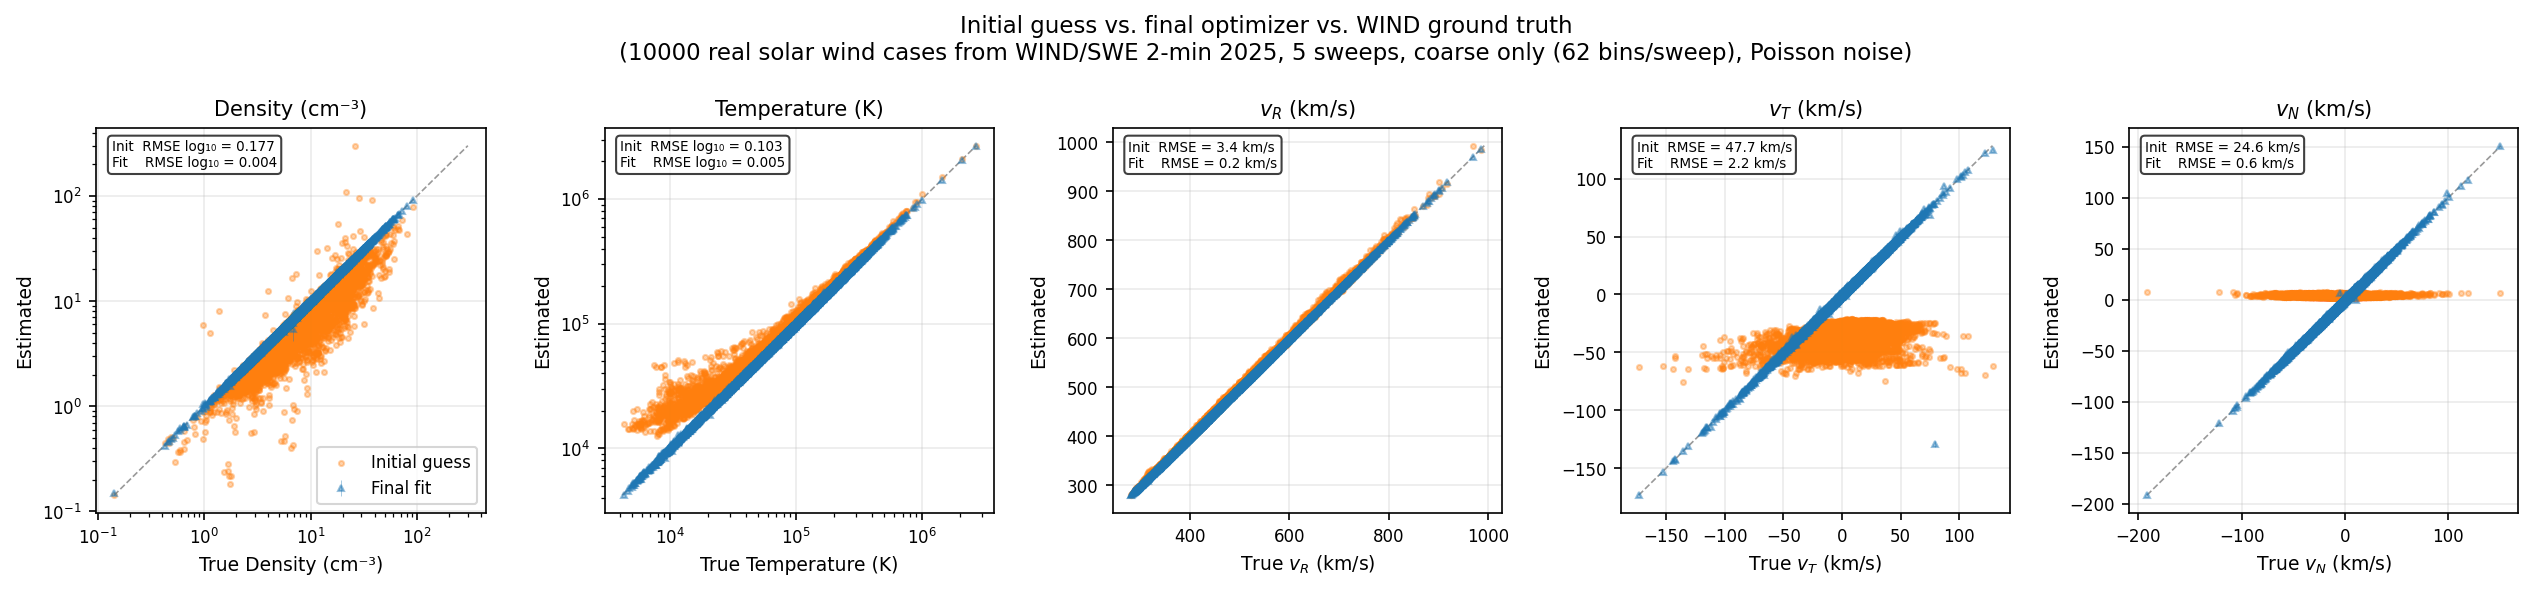
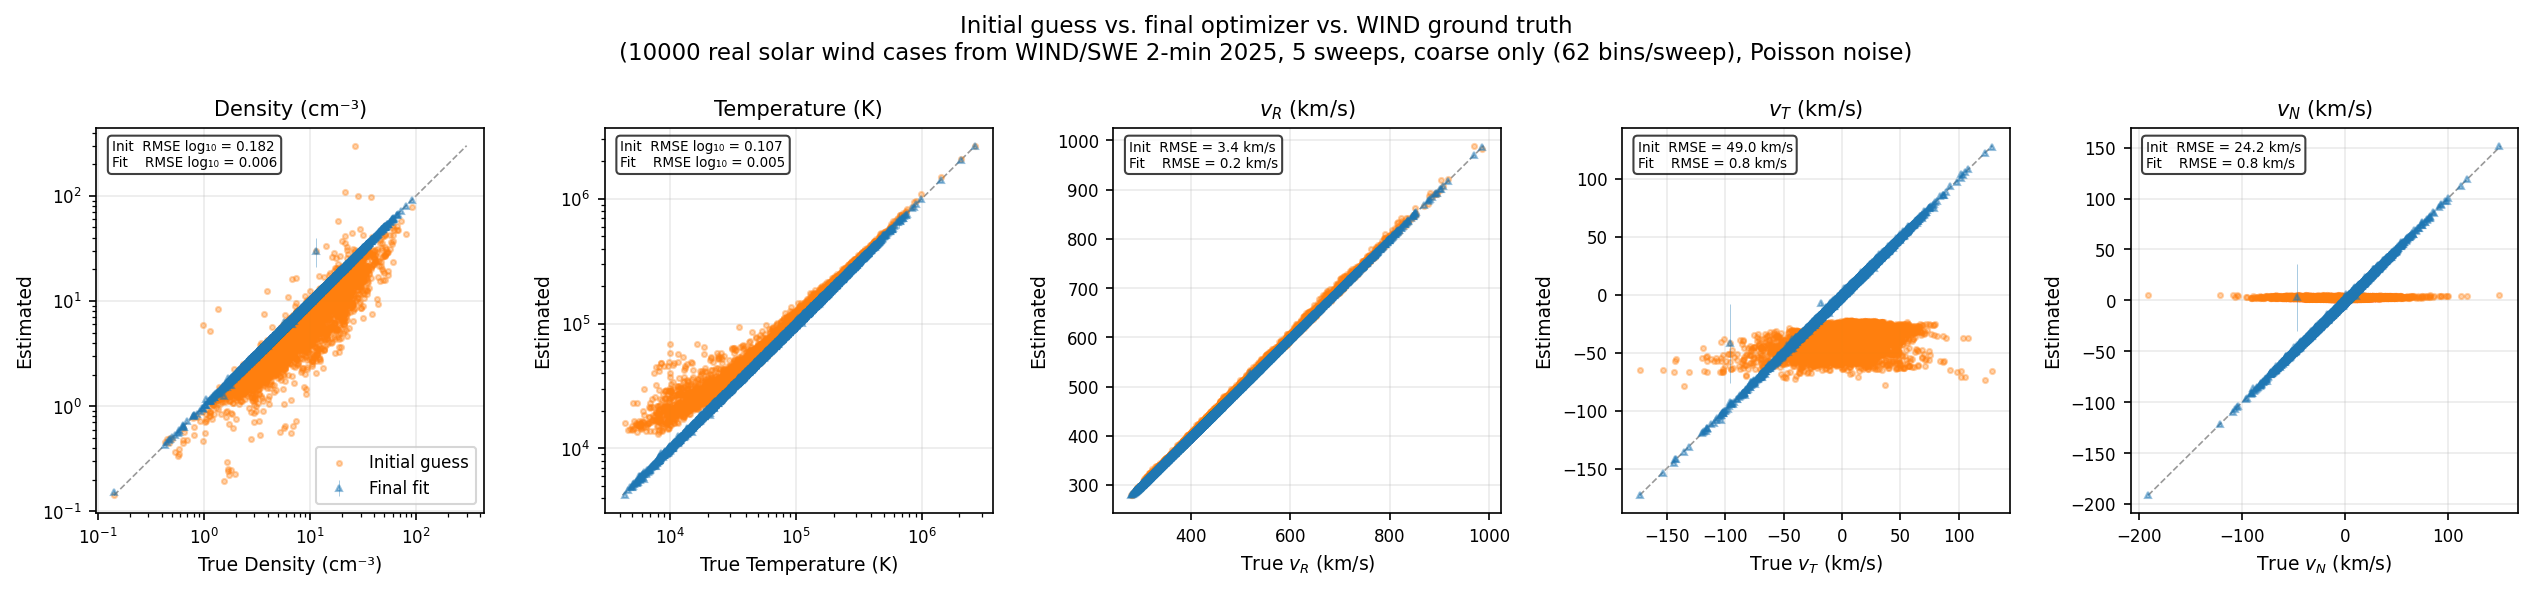
fix fit accuracy plot

diff --git a/docs/swapi/figure_src/plot_fit_accuracy.py b/docs/swapi/figure_src/plot_fit_accuracy.py
@@ -3,15 +3,12 @@
 Scatter plots comparing the SWAPI proton-moments fit against ground truth on
 **real solar wind conditions** sampled from WIND/SWE 2-min ASCII data.
 
-Toggle `INCLUDE_FINE_SWEEPS` at the top of this module:
-  - False (default): use only the 62 coarse-sweep bins (indices 1..62), to
-    show the fit recovers (n, T, v_R, v_T, v_N) without fine-sweep coverage.
-  - True: include the 9 fine-sweep bins (indices 63..71) clustered near the
-    proton peak. Fine-sweep voltages come from a real example sweep
-    (imap_swapi_l2_sci_20260204_v002.cdf, sweep 0; see plot_l2_sweep.py).
+Uses the 62 coarse-sweep bins (indices 1..62 of a 72-bin sweep) to show that
+the fit recovers (n, T, v_R, v_T, v_N) without fine-sweep coverage.
 
-Per-sweep RTN→SWAPI rotation matrices are pulled from SPICE kernels at sweep
-midpoints offset from `_BASE_TIMESTAMP`.
+Per-bin RTN→SWAPI rotation matrices are generated synthetically by spinning a
+single anchor matrix (a real SPICE attitude near 2026-01-01) about its own
+spin axis at the nominal SWAPI spin period.
 
 Synthetic count rates are produced from the SWAPI forward model (5 sweeps per
 fit, Poisson noise); the ground truth is read from a CSV produced by
@@ -21,7 +18,7 @@ Generate the CSV first:
   conda run -n imapL3 python scripts/swapi/sample_wind_solar_wind.py \
       --year 2025 --n 10000 --seed 7
 
-Output: docs/swapi/figures/fit_accuracy[_with_fine].png
+Output: docs/swapi/figures/fit_accuracy.png
 Usage:  conda run -n imapL3 python docs/swapi/figure_src/plot_fit_accuracy.py
 """
 
@@ -34,12 +31,10 @@ import os
 import time
 import types
 import multiprocessing
-from datetime import datetime
 
 import numpy as np
 import pandas as pd
 import numba
-import spiceypy
 from tqdm.contrib.concurrent import process_map
 from uncertainties import UFloat
 import matplotlib
@@ -51,8 +46,6 @@ from imap_l3_processing.constants import (
     PROTON_MASS_KG,
     PROTON_MASS_PER_CHARGE_M_P_PER_E,
 )
-from imap_l3_processing.utils import furnish_local_spice
-from imap_processing.spice.geometry import SpiceFrame, get_rotation_matrix
 from figure_utils import load_swapi_response
 from imap_l3_processing.swapi.l3a.science.calculate_proton_solar_wind_moments import (
     fit_solar_wind_proton_moments,
@@ -69,24 +62,19 @@ from imap_l3_processing.swapi.l3a.science.solar_wind_fit_context import (
     build_solar_wind_fit_context,
 )
 
-# Toggle: include the 9 fine-sweep bins (indices 63..71) in the synthetic
-# sweeps and the fit. See module docstring.
-INCLUDE_FINE_SWEEPS = False
-
 _REPO_ROOT = Path(__file__).resolve().parents[3]
 _N_SWEEPS = 5
 _SWEEP_DURATION_S = 12.0  # full 72-bin SWAPI sweep cadence
 _BINS_PER_SWEEP = 72
 _DT_S = _SWEEP_DURATION_S / _BINS_PER_SWEEP
-_BASE_TIMESTAMP = datetime(2026, 1, 1)  # SPICE rotation-matrix anchor
+_SPIN_PERIOD_S = 15.13  # typical IMAP spin period
 
-# Bin indices within a 72-bin sweep (1-indexed): 1..62 coarse, 63..71 fine.
-_COARSE_BIN_INDICES = np.arange(1, 63)
-_FINE_BIN_INDICES = np.arange(63, 72)
+# Coarse-sweep bin indices within a 72-bin sweep (1-indexed): 1..62.
+_BIN_INDICES_IN_SWEEP = np.arange(1, 63)
 
-# Mean SWAPI L2 coarse-sweep voltages (V), descending — bins 1..62 of the 72-bin
-# sweep, averaged over many real sweeps.
-_COARSE_VOLTAGES = np.array([
+# Mean SWAPI L2 coarse-sweep voltages (V), descending — bins 1..62 of the
+# 72-bin sweep, averaged over many real sweeps.
+_VOLTAGES = np.array([
      9895.52,  9088.69,  8348.80,  7667.55,  7042.16,  6469.31,  5941.77,  5457.31,
      5013.22,  4603.65,  4230.77,  3886.92,  3569.16,  3278.72,  3011.13,  2766.25,
      2539.54,  2333.83,  2144.24,  1969.31,  1808.74,  1660.86,  1525.75,  1401.82,
@@ -96,131 +84,24 @@ _COARSE_VOLTAGES = np.array([
       167.04,   153.46,   140.91,   129.50,   118.91,   109.20,   100.30,    92.11,
        84.61,    77.73,    71.40,    65.59,    60.23,    55.34,
 ])
-assert _COARSE_VOLTAGES.shape == (62,)
-
-# Fine-sweep voltages (V), bins 63..71 of the 72-bin sweep, taken from a real
-# example sweep: imap_swapi_l2_sci_20260204_v002.cdf, sweep 0 (see
-# docs/swapi/figure_src/plot_l2_sweep.py). ESA energies divided by the L2
-# k-factor (1.93) to give voltages.
-_SWAPI_L2_K_FACTOR = 1.93
-_FINE_SWEEP_VOLTAGES = np.array([
-    6.75500000e+01, 3.86000000e+01, 9.65000000e+00, 5.90960685e+02,
-    5.41903037e+02, 4.96917831e+02, 4.55666999e+02, 4.17840538e+02,
-    3.83154180e+02,
-]) / _SWAPI_L2_K_FACTOR
-assert _FINE_SWEEP_VOLTAGES.shape == (9,)
-
-if INCLUDE_FINE_SWEEPS:
-    _VOLTAGES = np.concatenate([_COARSE_VOLTAGES, _FINE_SWEEP_VOLTAGES])
-    _BIN_INDICES_IN_SWEEP = np.concatenate([_COARSE_BIN_INDICES, _FINE_BIN_INDICES])
-else:
-    _VOLTAGES = _COARSE_VOLTAGES
-    _BIN_INDICES_IN_SWEEP = _COARSE_BIN_INDICES
 _N_BINS = len(_VOLTAGES)
+assert _VOLTAGES.shape == _BIN_INDICES_IN_SWEEP.shape == (62,)
 
 
-# SPICE-derived RTN→SWAPI rotation matrices at sweep midpoints, used as
-# anchors for the per-bin rotation in the SPICE-unavailable fallback path.
-# Captures the ~4° spin-axis tilt off -R_RTN and the ~15.13 s spin period.
-_PRECOMPUTED_SWEEP_MIDPOINT_MATRICES = np.array([
-    [[+0.0705, +0.9157, +0.3955],
-     [-0.9968, +0.0792, -0.0057],
-     [-0.0365, -0.3939, +0.9184]],
-    [[-0.0141, -0.1350, +0.9907],
-     [-0.9972, +0.0743, -0.0041],
-     [-0.0731, -0.9881, -0.1357]],
-    [[-0.0721, -0.9884, +0.1340],
-     [-0.9974, +0.0716, -0.0084],
-     [-0.0013, -0.1342, -0.9909]],
-    [[-0.0183, -0.3937, -0.9191],
-     [-0.9971, +0.0750, -0.0122],
-     [+0.0737, +0.9162, -0.3939]],
-    [[+0.0683, +0.7775, -0.6251],
-     [-0.9968, +0.0795, -0.0100],
-     [+0.0420, +0.6238, +0.7805]],
+# Single RTN→SWAPI anchor matrix from a real SPICE attitude near 2026-01-01,
+# at the first sweep midpoint (t = _ANCHOR_TIME_S). Reflects the ~4° spin-axis
+# tilt off -R̂_RTN. Per-bin matrices are built by spinning this anchor about
+# its own +Y row (the spin axis in RTN) at the nominal SWAPI spin period.
+_ANCHOR_ROTATION_MATRIX = np.array([
+    [+0.0705, +0.9157, +0.3955],
+    [-0.9968, +0.0792, -0.0057],
+    [-0.0365, -0.3939, +0.9184],
 ])
+_ANCHOR_TIME_S = 0.5 * _SWEEP_DURATION_S
+# Sign chosen so R(t) = anchor @ Rot(δφ, spin_axis_RTN) reproduces independent
+# SPICE-derived sweep midpoints over a 5-sweep cycle.
+_SPIN_OMEGA_RAD_S = -2.0 * np.pi / _SPIN_PERIOD_S
 
-
-def _compute_per_bin_rotation_matrices(
-    n_sweeps: int, bin_indices_in_sweep: np.ndarray,
-) -> np.ndarray:
-    """RTN→SWAPI rotation matrix per (sweep, bin) sample, capturing within-
-    sweep spin.
-
-    Each bin is sampled at time t = sw·_SWEEP_DURATION_S + bin_idx·_DT_S,
-    where bin_idx is the 1-indexed position of the bin within a 72-bin
-    sweep. Tries SPICE first; falls back to rotating the inlined
-    sweep-midpoint matrices forward/backward about the spin axis at the
-    spacecraft's measured spin rate.
-
-    Returns shape (n_sweeps · n_bins, 3, 3) flattened in (sweep-major,
-    bin-minor) order — matches the per-bin layout expected by
-    `solar_wind_fit_context`.
-    """
-    n_bins = len(bin_indices_in_sweep)
-    sweep_index = np.repeat(np.arange(n_sweeps), n_bins)
-    bin_index = np.tile(bin_indices_in_sweep, n_sweeps)
-    bin_offsets_s = sweep_index * _SWEEP_DURATION_S + bin_index * _DT_S
-    try:
-        furnish_local_spice()
-        base_et = spiceypy.datetime2et(_BASE_TIMESTAMP)
-        sample_et = base_et + bin_offsets_s
-        return get_rotation_matrix(sample_et, SpiceFrame.IMAP_RTN, SpiceFrame.IMAP_SWAPI)
-    except spiceypy.utils.exceptions.SpiceyError:
-        if n_sweeps != _PRECOMPUTED_SWEEP_MIDPOINT_MATRICES.shape[0]:
-            raise
-        print("(SPICE attitude unavailable; spinning precomputed matrices per bin)")
-        return _spin_per_bin_from_midpoints(
-            _PRECOMPUTED_SWEEP_MIDPOINT_MATRICES, sweep_index, bin_index,
-        )
-
-
-def _spin_per_bin_from_midpoints(
-    midpoint_matrices: np.ndarray,
-    sweep_index: np.ndarray,
-    bin_index: np.ndarray,
-) -> np.ndarray:
-    """Rotate the sweep-midpoint matrices about the spin axis to per-bin times.
-
-    Spin axis is the mean Y row (SWAPI boresight, also spacecraft spin axis)
-    of the midpoint matrices. Spin rate is recovered by least-squares fit of
-    the unwrapped phase of the +X SWAPI axis (projected onto the plane
-    perpendicular to the spin axis) versus sweep-midpoint time.
-    """
-    spin_axis = midpoint_matrices[:, 1, :].mean(axis=0)
-    spin_axis = spin_axis / np.linalg.norm(spin_axis)
-
-    x_axis = midpoint_matrices[:, 0, :]
-    x_perp = x_axis - (x_axis @ spin_axis)[:, None] * spin_axis
-    e1 = x_perp[0] / np.linalg.norm(x_perp[0])
-    e2 = np.cross(spin_axis, e1)
-    phase_raw = np.arctan2(x_perp @ e2, x_perp @ e1)
-    phase = np.unwrap(phase_raw)
-    midpoint_times_s = (np.arange(midpoint_matrices.shape[0]) + 0.5) * _SWEEP_DURATION_S
-    omega, _ = np.polyfit(midpoint_times_s, phase, 1)
-
-    sample_times_s = sweep_index * _SWEEP_DURATION_S + bin_index * _DT_S
-    midpoint_times_for_samples = (sweep_index + 0.5) * _SWEEP_DURATION_S
-    delta_phi = omega * (sample_times_s - midpoint_times_for_samples)
-
-    cos_dp = np.cos(delta_phi)
-    sin_dp = np.sin(delta_phi)
-    one_minus_cos = 1.0 - cos_dp
-    ax, ay, az = spin_axis
-    K = np.array([
-        [cos_dp + ax * ax * one_minus_cos,
-         ax * ay * one_minus_cos - az * sin_dp,
-         ax * az * one_minus_cos + ay * sin_dp],
-        [ay * ax * one_minus_cos + az * sin_dp,
-         cos_dp + ay * ay * one_minus_cos,
-         ay * az * one_minus_cos - ax * sin_dp],
-        [az * ax * one_minus_cos - ay * sin_dp,
-         az * ay * one_minus_cos + ax * sin_dp,
-         cos_dp + az * az * one_minus_cos],
-    ]).transpose(2, 0, 1)
-
-    base = midpoint_matrices[sweep_index]
-    return np.einsum("nij,njk->nik", base, K)
 
 # Set by main() before forking; children inherit via fork.
 _worker_state: types.SimpleNamespace | None = None
@@ -254,8 +135,7 @@ def _load_wind_samples(csv_path: Path) -> tuple[np.ndarray, ...]:
 def _initialize_worker_state(ground_truth_params: tuple[np.ndarray, ...]) -> None:
     global _worker_state
 
-    label = "coarse+fine" if INCLUDE_FINE_SWEEPS else "coarse-only"
-    print(f"Using {_N_BINS} bins ({label}), "
+    print(f"Using {_N_BINS} coarse-sweep bins, "
           f"{_VOLTAGES.min():.1f}–{_VOLTAGES.max():.1f} V")
 
     swapi_response = load_swapi_response()
@@ -283,6 +163,29 @@ def _initialize_worker_state(ground_truth_params: tuple[np.ndarray, ...]) -> Non
         per_bin_rotation_matrices=per_bin_rotation_matrices,
         base_ctx=base_ctx,
     )
+
+
+def _compute_per_bin_rotation_matrices(
+    n_sweeps: int, bin_indices_in_sweep: np.ndarray,
+) -> np.ndarray:
+    """Synthetic per-bin RTN→SWAPI matrices: anchor spun about its spin axis.
+
+    Bin sample times are t = sw·_SWEEP_DURATION_S + bin_idx·_DT_S. Returns
+    shape (n_sweeps · n_bins, 3, 3) in (sweep-major, bin-minor) order.
+    """
+    sweep_index = np.repeat(np.arange(n_sweeps), len(bin_indices_in_sweep))
+    bin_index = np.tile(bin_indices_in_sweep, n_sweeps)
+    sample_times_s = sweep_index * _SWEEP_DURATION_S + bin_index * _DT_S
+
+    spin_axis = _ANCHOR_ROTATION_MATRIX[1] / np.linalg.norm(_ANCHOR_ROTATION_MATRIX[1])
+    delta_phi = _SPIN_OMEGA_RAD_S * (sample_times_s - _ANCHOR_TIME_S)
+
+    ax, ay, az = spin_axis
+    K = np.array([[0, -az, ay], [az, 0, -ax], [-ay, ax, 0]])
+    sin_dp = np.sin(delta_phi)[:, None, None]
+    one_minus_cos = (1.0 - np.cos(delta_phi))[:, None, None]
+    rot = np.eye(3) + sin_dp * K + one_minus_cos * (K @ K)
+    return _ANCHOR_ROTATION_MATRIX @ rot
 
 
 def _run_fits(n_samples: int) -> pd.DataFrame:
@@ -408,15 +311,10 @@ def _plot_results(data: pd.DataFrame) -> None:
     ]
 
     fig, axes = plt.subplots(1, 5, figsize=(17, 4))
-    bin_label = (
-        f"coarse+fine ({_N_BINS} bins/sweep)"
-        if INCLUDE_FINE_SWEEPS
-        else f"coarse only ({_N_BINS} bins/sweep)"
-    )
     fig.suptitle(
         f"Initial guess vs. final optimizer vs. WIND ground truth\n"
         f"({n_samples} real solar wind cases from WIND/SWE 2-min 2025, "
-        f"{_N_SWEEPS} sweeps, {bin_label}, Poisson noise)",
+        f"{_N_SWEEPS} sweeps × {_N_BINS} coarse-sweep bins, Poisson noise)",
         fontsize=11,
     )
 
@@ -478,8 +376,7 @@ def _plot_results(data: pd.DataFrame) -> None:
 
     out_dir = _REPO_ROOT / "docs" / "swapi" / "figures"
     out_dir.mkdir(parents=True, exist_ok=True)
-    out_name = "fit_accuracy_with_fine.png" if INCLUDE_FINE_SWEEPS else "fit_accuracy.png"
-    out_path = out_dir / out_name
+    out_path = out_dir / "fit_accuracy.png"
     fig.savefig(out_path, dpi=150, bbox_inches="tight")
     print(f"Saved {out_path}")
 
